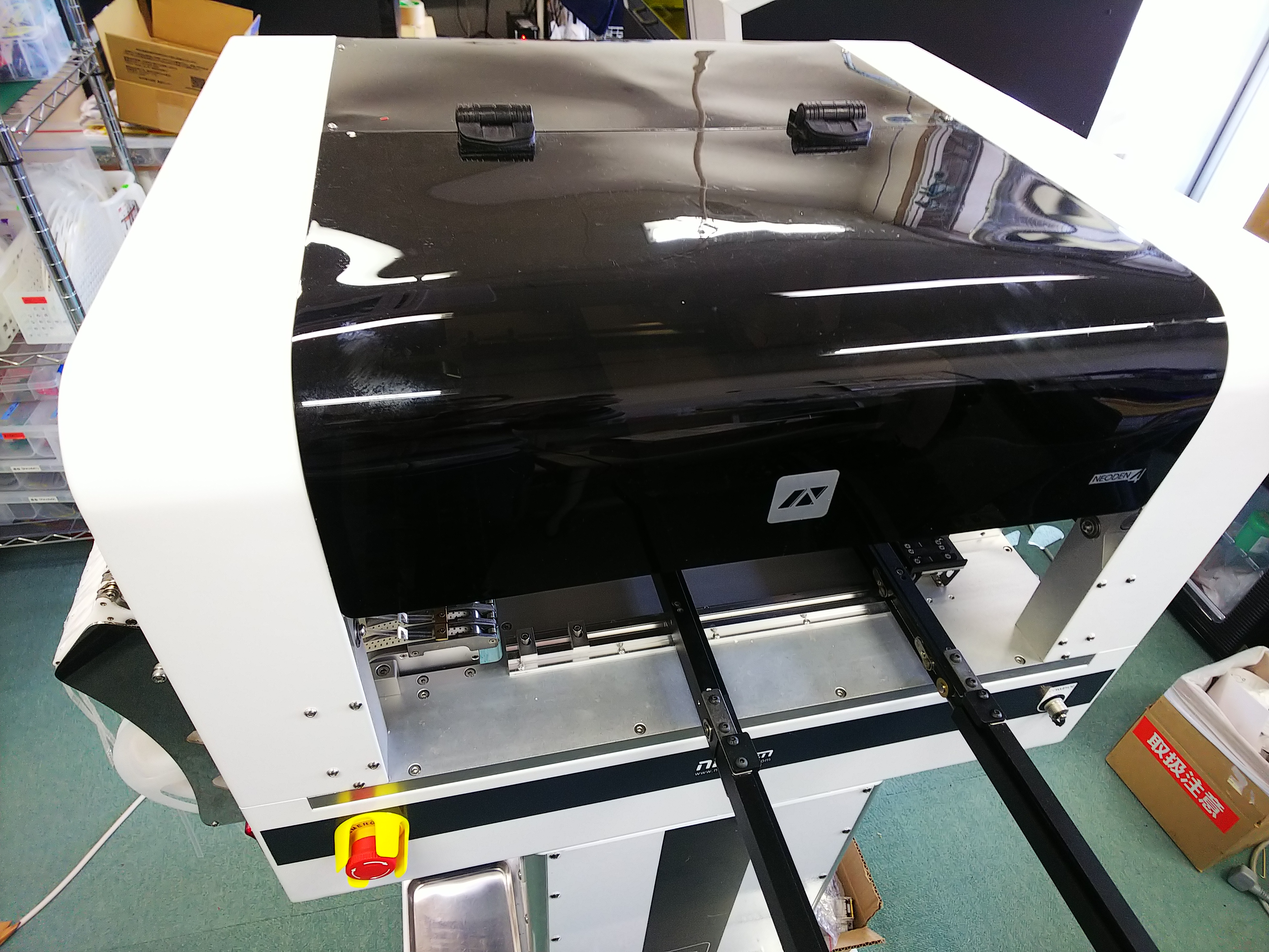
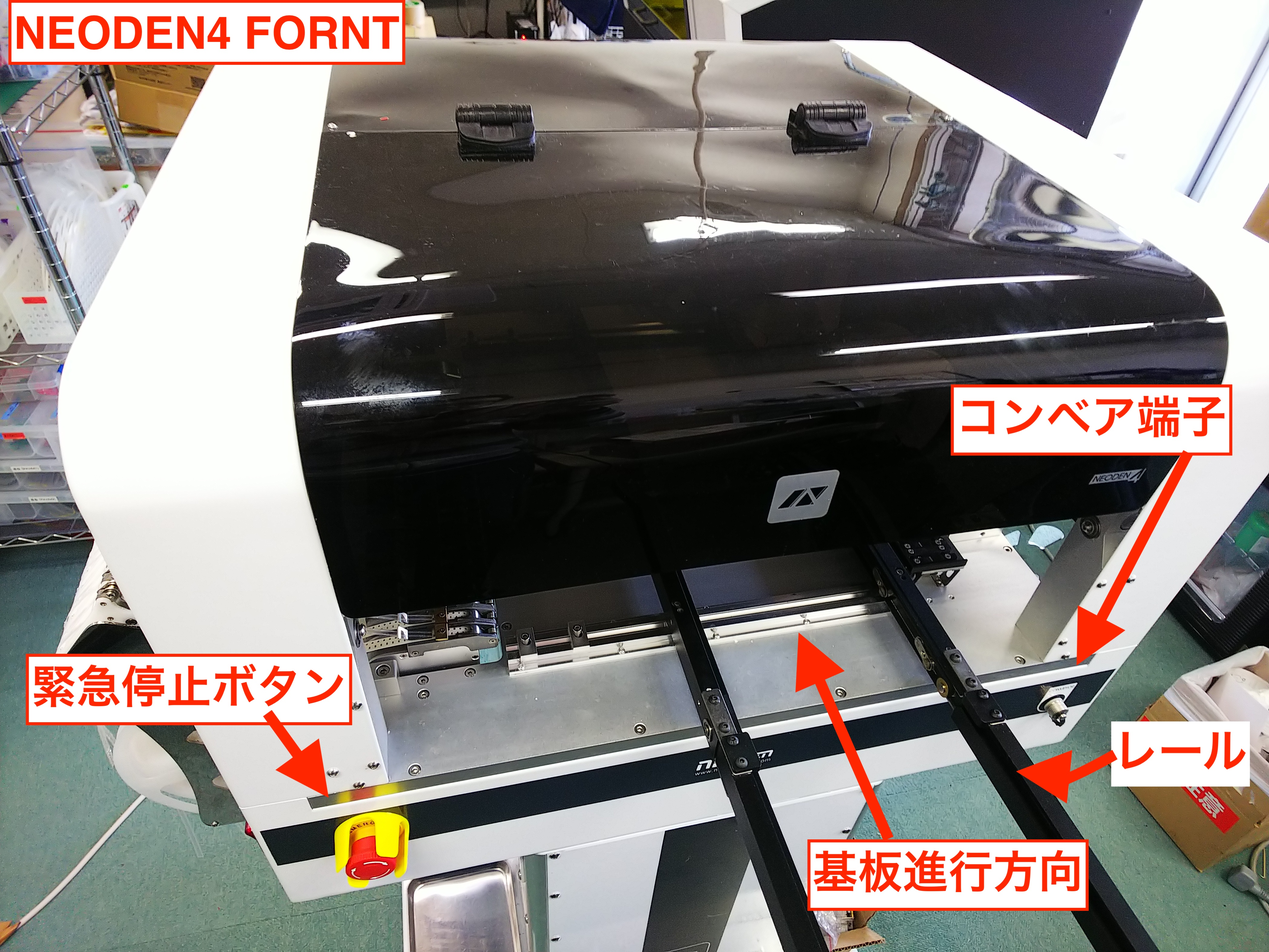
Second_Update.

diff --git a/docs/ChipMounter/2.mounter.md b/docs/ChipMounter/2.mounter.md
@@ -22,9 +22,11 @@ https://neodenusa.com/
 
 ![](./img/PIC010.JPG)
 
-![](./img/PIC004.JPG)
+Neoden4では、フィーダーは2つに分割されおり、フィードボックス、ペールボックスと言います。
 
+フィードボックスは、部品送り、ペールボックスは、皮を捲る役割を果たします。
 
+![](./img/PIC013.JPG)
 
 ## Neoden４のサンプル付属品
 
@@ -37,25 +39,45 @@ https://neodenusa.com/
 ## Neoden４のスペック
 
 ヘッド数：4配置率：10000PCS / H
+
 フィーダ容量：テープリールフィーダ：48テープ幅：8mm、12mm、16mm、24mm振動フィーダ：5
+
 5000PCS / H
+
 ICトレイ容量：5
+
 ビジョン最小コンポーネントサイズ：0201最大コンポーネントサイズ：TQFP240
+
 適用部品：0201、BGA、SOIC、SSOP、QFN、TQFP、LEDコンポーネント、ダイオード、三極管、タクトスイッチ
+
 コンポーネントの高さ：最大5mm
+
 分解能X / Y軸：0.01mm Z軸：0.1mm
+
 回転：+/- 180（360）
+
 位置決め精度：+/- 0.02mm
+
 X-Y再現性：+/- 0.02mm
+
 適用基板面積：310mm * 1500mm
+
 配置場所：310 * 1500mm（ワッフルトレイなし）
+
 プログラミング：ソフトウエア自動プログラミング/手動機械プログラミング
+
 メインコントロール：GUI
+
 電源：220V、50Hz（110Vに変換可能）
+
 電源：180W
+
 外形寸法：機械：87 * 68 * 48CM
+
 パッキングサイズ：94 * 74 * 60CM
+
 正味重量：60KGS
+
 総重量：80kg
 
 ## Neoden４の構成

diff --git a/docs/ChipMounter/1.preparation.md b/docs/ChipMounter/1.preparation.md
@@ -1,10 +1,10 @@
-# 4.1 チップマウンタ準備設定
+# 5.1 チップマウンタ準備設定
 
-##概要
+## 概要
 
 表面実装機（チップマウンタ）と呼ばれる機器により自動で、小さな部品である表面実装部品（SMD）を実装します。
 
-##準備
+## 準備
 
 回路図からBOM（部品表）を作成し、必要なリール部品を揃えます。
 

diff --git a/docs/ChipMounter/3.realset.md b/docs/ChipMounter/3.realset.md
@@ -20,3 +20,7 @@
 ## ノズルセット
 
 部品の大きさにより使用するノズルを使い分けます。
+
+ノズル番号（Neoden4 左側から見た場合）
+
+![](./img/PIC014.JPG)
